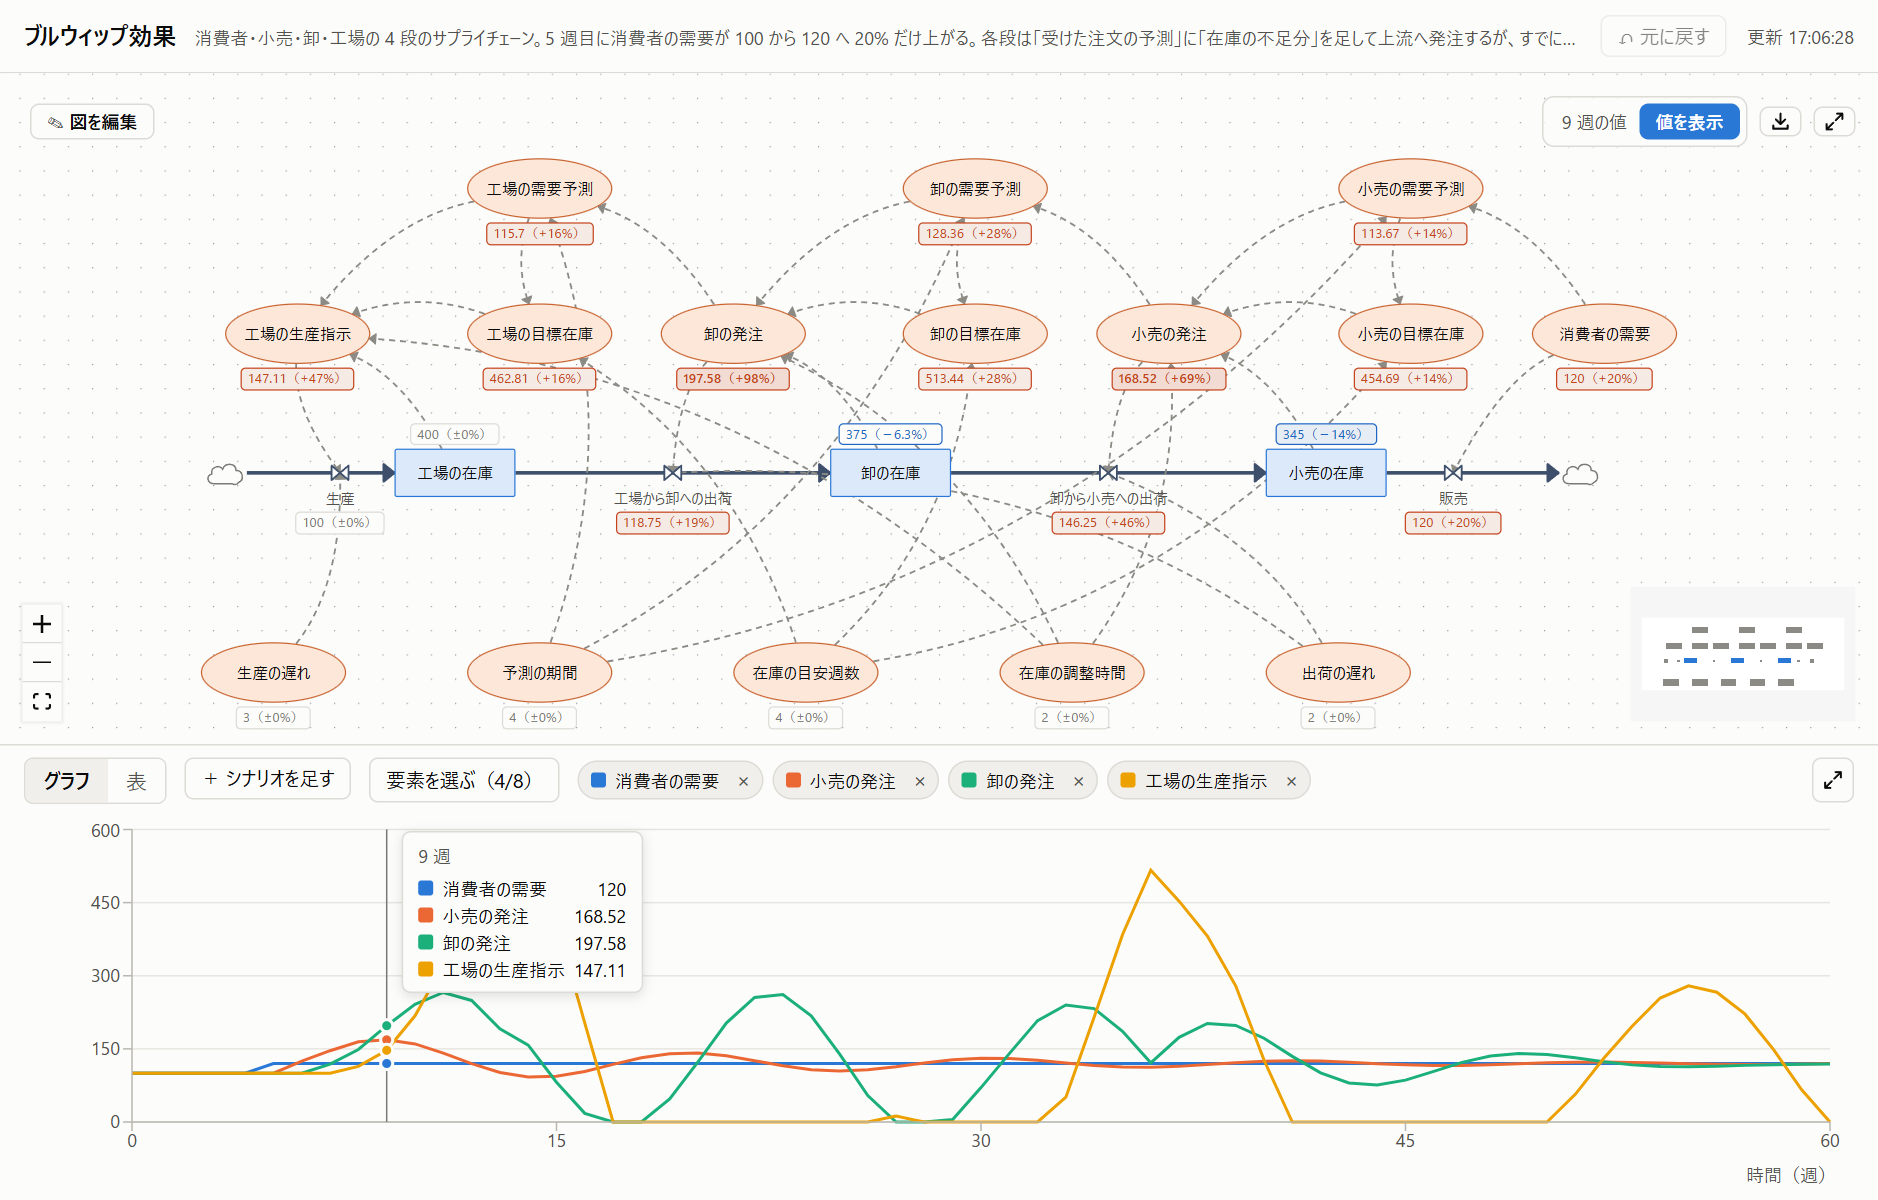
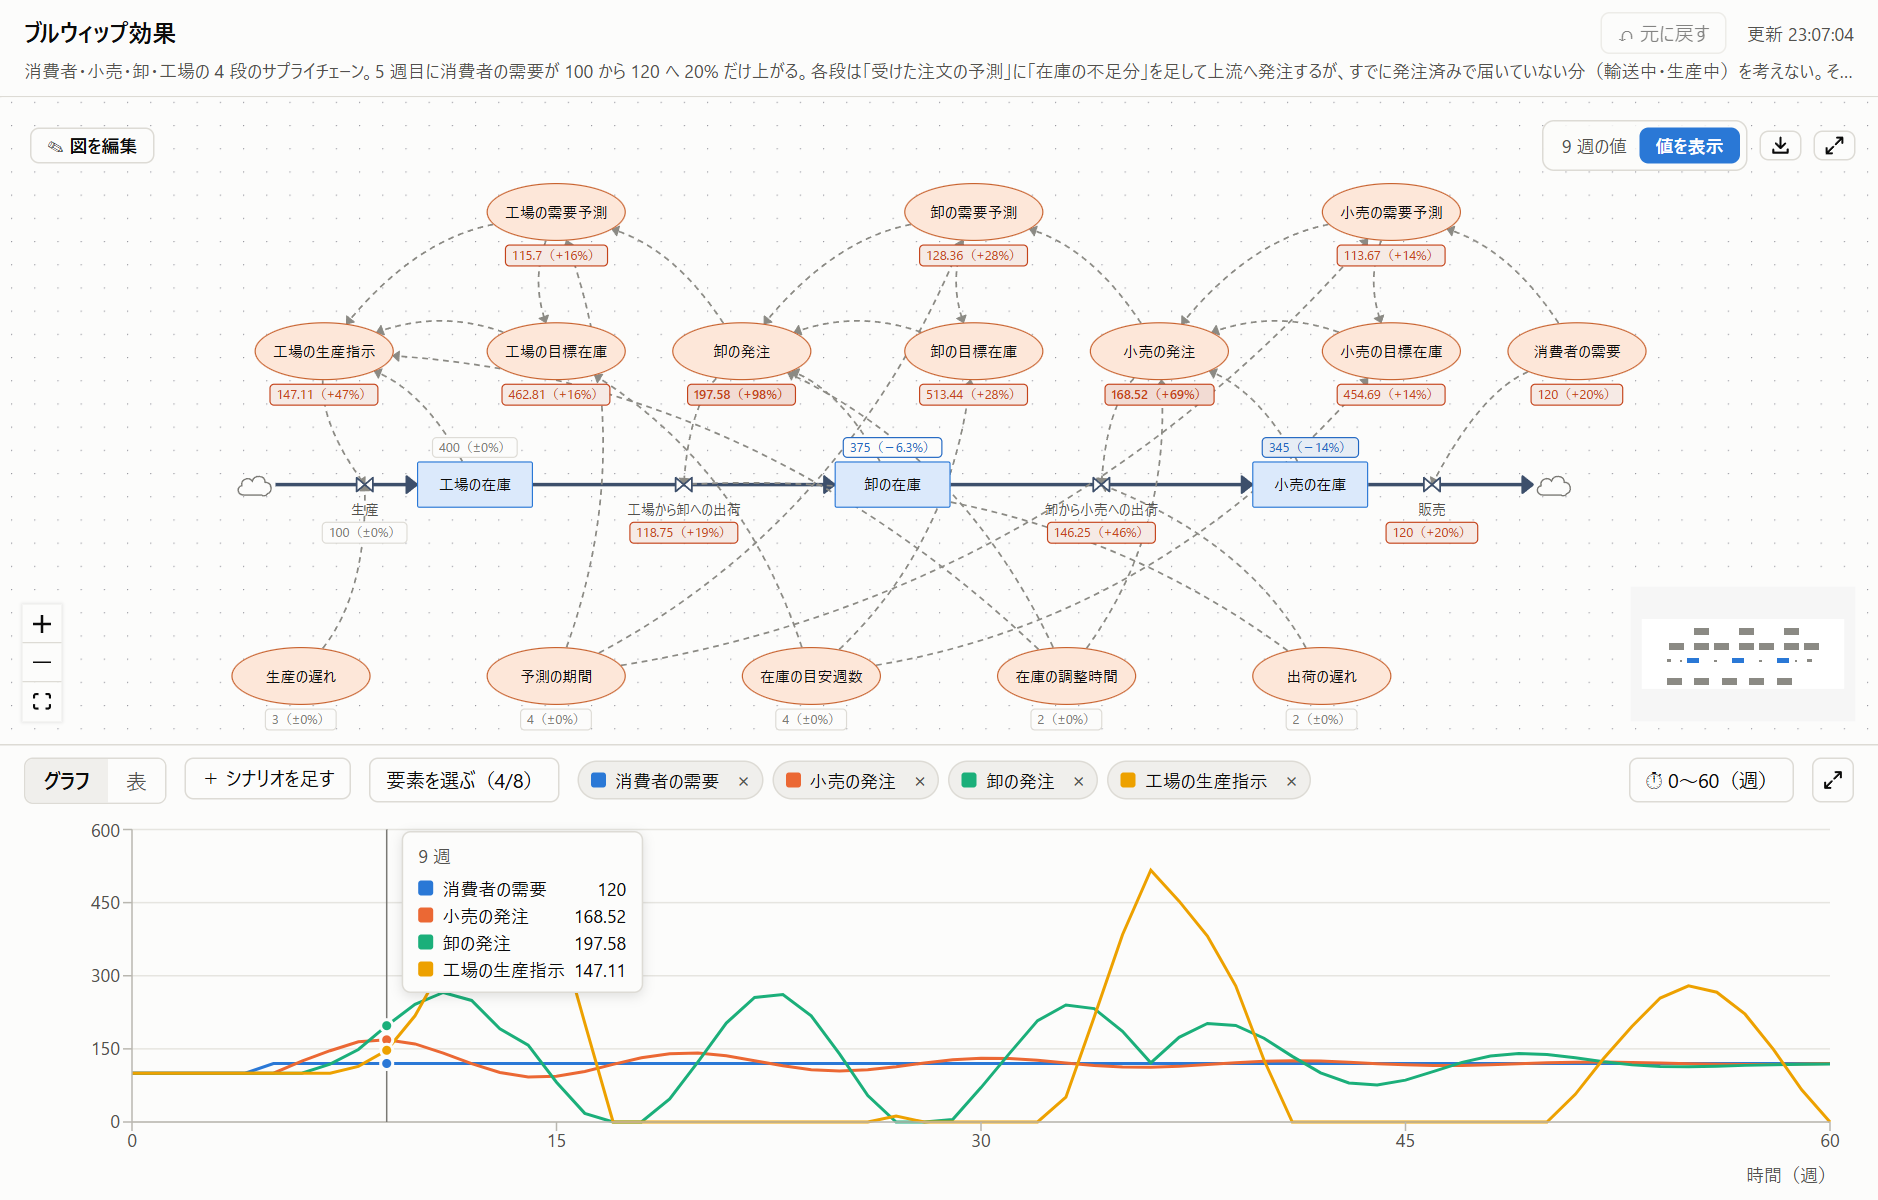
ビューアの上の帯を 2 行にし、説明の最初の段落を幅いっぱいに出す (#104) (#107)

diff --git a/web/src/App.tsx b/web/src/App.tsx
@@ -8,6 +8,7 @@ import { Diagram, type LinkEnds, type NodeValues, type Removable, type ScenarioM
 import { blobToBase64, exportDiagram, type ExportedDiagram } from "./diagramExport.js";
 import { nodeValues, peakIndex, timeIndex, valueScenarioNames, valueScenarioRun } from "./diagramValues.js";
 import { formulaView } from "./formulaValues.js";
+import { firstParagraph } from "./description.js";
 import { InfoTip } from "./InfoTip.js";
 import { addElementPatches, addNotePatches, linkProblem, linkRemoveProblem, reconnectChanges, renamedName, type FlowEnd, type NewElementType } from "./editing.js";
 import { toGraph } from "../../src/core/diagram.js";
@@ -1106,6 +1107,7 @@ export function App() {
   }, []);
 
   const title = data?.model.name || current;
+  const summary = firstParagraph(data?.model.description);
 
   if (EMBED) {
     embedEdges = graph?.edges.length ?? 0;
@@ -1242,27 +1244,30 @@ export function App() {
 
       <main className="main" ref={mainRef}>
         <div className="toolbar">
-          <div className="title">
-            <h2 title={title}>{title || "モデルを選んでください"}</h2>
-            {data?.model.description && (
-              <p className="muted" title={data.model.description}>
-                {data.model.description}
-              </p>
+          <div className="toolbar-row">
+            <h2 className="title" title={title}>
+              {title || "モデルを選んでください"}
+            </h2>
+            {graph && data && (
+              <div className="toolbar-right">
+                {graph.missingCoordinates && <InfoTip text="座標のない要素を仮に並べています。「図を編集」で動かすと、この配置を保存します" />}
+                <button
+                  className="toolbar-button"
+                  onClick={() => void undo()}
+                  disabled={!data.undo_available}
+                  title={data.undo_available ? `画面で変えたことを元に戻します（あと ${data.undo_available} 回、Ctrl+Z）` : "元に戻せる変更はありません"}
+                >
+                  ↶ 元に戻す
+                </button>
+                {updatedAt && <span className="muted small">{busy ? "保存しています…" : `更新 ${updatedAt.toLocaleTimeString("ja-JP")}`}</span>}
+              </div>
             )}
           </div>
-          {graph && data && (
-            <div className="toolbar-right">
-              {graph.missingCoordinates && <InfoTip text="座標のない要素を仮に並べています。「図を編集」で動かすと、この配置を保存します" />}
-              <button
-                className="toolbar-button"
-                onClick={() => void undo()}
-                disabled={!data.undo_available}
-                title={data.undo_available ? `画面で変えたことを元に戻します（あと ${data.undo_available} 回、Ctrl+Z）` : "元に戻せる変更はありません"}
-              >
-                ↶ 元に戻す
-              </button>
-              {updatedAt && <span className="muted small">{busy ? "保存しています…" : `更新 ${updatedAt.toLocaleTimeString("ja-JP")}`}</span>}
-            </div>
+          {/* 2 行目は説明の最初の段落だけを、帯の幅いっぱいに出す（全文はカーソルを乗せると出る）。説明がなければ出さない */}
+          {summary && (
+            <p className="toolbar-summary muted" title={data?.model.description}>
+              {summary}
+            </p>
           )}
         </div>
         {error && <div className="banner error">{error}</div>}

diff --git a/web/src/styles.css b/web/src/styles.css
@@ -515,36 +515,34 @@ button.link {
   min-width: 0;
   min-height: 0;
 }
+/* 上の帯は 2 行。1 行目はモデルの名前と右のボタン類、2 行目は説明の最初の段落だけを帯の幅いっぱいに出す
+   （説明がなければ 1 行）。どちらも 1 行に収め、入りきらないぶんは「…」で省略する（全文はカーソルを乗せると出る） */
 .toolbar {
+  display: flex;
+  flex-direction: column;
+  gap: 2px;
+  padding: 8px 16px;
+  background: var(--surface-1);
+  border-bottom: 1px solid var(--border);
+}
+.toolbar-row {
   display: flex;
   align-items: center;
   justify-content: space-between;
   gap: 16px;
-  padding: 10px 16px;
-  background: var(--surface-1);
-  border-bottom: 1px solid var(--border);
-}
-/* 上の帯を 1 行に収めるため、モデルの説明は名前の右に並べる。
-   どちらも 1 行に収め、入りきらないぶんは「…」で省略する（全文はカーソルを乗せると出る） */
-.toolbar .title {
-  display: flex;
-  align-items: baseline;
-  gap: 12px;
   min-width: 0;
 }
-.toolbar .title h2,
-.toolbar .title p {
+.toolbar .title,
+.toolbar-summary {
+  min-width: 0;
   white-space: nowrap;
   overflow: hidden;
   text-overflow: ellipsis;
 }
-.toolbar .title h2 {
+.toolbar .title {
   font-size: 16px;
 }
-/* 名前が長くても、説明があることは分かるように、説明の幅を少し残す（名前のほうを省略する） */
-.toolbar .title p {
-  flex: 1 1 0;
-  min-width: 4em;
+.toolbar-summary {
   margin: 0;
   font-size: 12px;
 }
@@ -2420,11 +2418,11 @@ button.scenario-chip-button.on {
   .splitter {
     display: none;
   }
-  .toolbar {
+  .toolbar-row {
     flex-direction: column;
     align-items: flex-start;
   }
-  /* 名前と説明は 1 行のままなので、画面の幅で止めて「…」で省略する（横にはみ出さないように） */
+  /* 名前は 1 行のままなので、画面の幅で止めて「…」で省略する（横にはみ出さないように） */
   .toolbar .title {
     max-width: 100%;
   }

diff --git a/tests/viewer-description.test.ts b/tests/viewer-description.test.ts
@@ -1,0 +1,26 @@
+import { describe, expect, test } from "vitest";
+import { firstParagraph } from "../web/src/description.js";
+
+describe("上の帯に出す説明の最初の段落", () => {
+  test("最初の空行の手前までを、改行を空白にして 1 行で返す", () => {
+    expect(firstParagraph("【ひとことで】\n成長は止まる。\n\n【どんな問題か】\n長い説明")).toBe("【ひとことで】 成長は止まる。");
+  });
+
+  test("見出しがなくても、最初の段落を返す", () => {
+    expect(firstParagraph("在庫が増えすぎる。\n\nくわしい説明")).toBe("在庫が増えすぎる。");
+  });
+
+  test("空行がなければ全体を返す", () => {
+    expect(firstParagraph("1 行だけの説明")).toBe("1 行だけの説明");
+  });
+
+  test("頭の空行と、空白だけの行での区切り、Windows の改行も扱う", () => {
+    expect(firstParagraph("\n\n  要点。\r\n続き。\r\n  \r\n次の段落")).toBe("要点。 続き。");
+  });
+
+  test("説明がないか空白だけなら空の文字列（帯は 1 行になる）", () => {
+    expect(firstParagraph(undefined)).toBe("");
+    expect(firstParagraph("")).toBe("");
+    expect(firstParagraph(" \n \n")).toBe("");
+  });
+});

diff --git a/web/src/description.ts b/web/src/description.ts
@@ -1,0 +1,16 @@
+// 上の帯の 2 行目に出す、モデルの説明の頭（画面の部品とは分けて、テストできるようにする）
+
+/**
+ * 説明の最初の段落（最初の空行の手前まで）を 1 行にして返す。段落の中の改行は空白にする
+ * （sample の「【ひとことで】」と、その下の 1〜2 文を続けて出すため）。見出しの有無は見ない。
+ * 頭の空行は飛ばす。中身がなければ空の文字列を返す（帯は 1 行になる）
+ */
+export function firstParagraph(description: string | undefined): string {
+  if (!description) return "";
+  const paragraph = description.replace(/\r\n?/g, "\n").trim().split(/\n[ \t　]*\n/)[0] ?? "";
+  return paragraph
+    .split("\n")
+    .map((line) => line.trim())
+    .filter((line) => line)
+    .join(" ");
+}

diff --git a/web/src/InfoTip.tsx b/web/src/InfoTip.tsx
@@ -2,7 +2,7 @@ import { useEffect, useId, useRef, useState } from "react";
 
 /**
  * 「i」アイコン。押すと説明文を出す（カーソルを乗せたときは、ツールチップで出す）。
- * 上の帯を 1 行に収めるため、長い説明文は帯に並べずにこのアイコンにしまう。画面の大きさにかかわらず、いつもアイコンで出す。
+ * 上の帯の 1 行目（名前とボタン類）に収めるため、長い説明文は帯に並べずにこのアイコンにしまう。画面の大きさにかかわらず、いつもアイコンで出す。
  * 読み上げでは、アイコンの名前として説明文の全文を読む。
  */
 export function InfoTip({ text }: { text: string }) {

diff --git a/docs/viewer.md b/docs/viewer.md
@@ -93,7 +93,7 @@ npx.cmd -y -p loopsight loopsight-viewer --models-dir D:\work\models --port 5181
 | 左の「ループ」 | モデルのフィードバックループの一覧です。押すと、図でそのループを目立たせます（[ループを目立たせる](#ループを目立たせる)） |
 | 左の「問題」 | モデルにエラーや警告があるときだけ出ます（[エラーがあるとき](#エラーがあるとき)） |
 | 左下の「モデル」 | 作業フォルダのモデルの一覧です。作業フォルダの中のフォルダと同じ形で出します（[モデルの一覧とフォルダ](#モデルの一覧とフォルダ)）。上の行がファイル名、下の行がモデルの名前です。押すとそのモデルを開きます。見出しを押すと一覧を閉じたり開いたりできます（閉じているあいだはモデルの数を出します）。開け閉めはブラウザが覚えています |
-| 上の帯 | モデルの名前と説明、「i」（座標のない要素があるときだけ。[配置](#配置)）、「元に戻す」、最後に読み込んだ時刻。帯は 1 行で、名前と説明が入りきらないときは「…」で省略します（カーソルを乗せると全部出ます） |
+| 上の帯 | 2 行です。1 行目はモデルの名前と、「i」（座標のない要素があるときだけ。[配置](#配置)）、「元に戻す」、最後に読み込んだ時刻。2 行目はモデルの説明の最初の段落（最初の空行まで。段落の中の改行は空白にします）だけを、帯の幅いっぱいに出します。説明のないモデルでは 2 行目を出さず、帯は 1 行です。名前と説明が入りきらないときは「…」で省略します（カーソルを乗せると全部出ます。説明は全文が出ます） |
 | 真ん中 | モデルの図です（[図の見方](#図の見方)）。左上の「✎ 図を編集」で[編集モード](#編集モード)を、右上の「値を表示」で[要素の値の表示](#図に値を出す)を切り替えます |
 | 下 | 実行結果のグラフと表です（[グラフと表](#グラフと表)） |
 

diff --git a/examples/README.md b/examples/README.md
@@ -83,7 +83,7 @@ sample は npm パッケージには入っていない。[GitHub のリポジト
 - **簡単で、理論に穴がない（批判されにくい）こと。** ただし抽象的すぎず、仕事の具体的な話にする
 - **式にするのは、裏付けのある関係だけ。** 物理や算数で決まること、研究で何度も確かめられたこと
 - **人の判断は、判断の決まりは図に入れてよいが、どれだけ強く反応するかはシナリオのつまみにする。** 人の間違った反応と、てこ（効く打ち手）はシナリオで見せる
-- **説明文は `【ひとことで】` から始める。** 1〜2 文で、問題と、てこの要点を書く。ビューアの上の帯には説明の頭が 1 行だけ出るので、ここだけ読めば要点が分かるようにする。見本（3 問題のすり替わり）：
+- **説明文は `【ひとことで】` から始める。** 1〜2 文で、問題と、てこの要点を書く。ビューアの上の帯の 2 行目には説明の最初の段落（最初の空行まで）が 1 行で出て、入りきらないぶんは「…」で省略されるので、ここだけ読めば要点が分かるようにする。見本（3 問題のすり替わり）：
 
   ```text
   【ひとことで】売上の不足を営業で埋め続けると、品質を直すための合図とお金が消え、2 年後に一気に崩れる。

diff --git a/CHANGELOG.md b/CHANGELOG.md
@@ -25,6 +25,7 @@
 ### ビューア
 
 - 作業フォルダのモデルを、フォルダごとの一覧、図、グラフと表で見る。AI がモデルを変えると、画面がその場で変わる
+- 上の帯は 2 行。1 行目にモデルの名前とボタン類、2 行目にモデルの説明の最初の段落を、帯の幅いっぱいに出す（説明のないモデルでは 1 行）
 - 選んだ要素の名前、式、初期値、単位などを直す。「図を編集」をオンにすると、要素を動かす・足す・つなぐ・消すことができる
 - リンクの極性（+ / −）を付ける
 - フィードバックループの一覧を出し、選んだループを図で目立たせる
